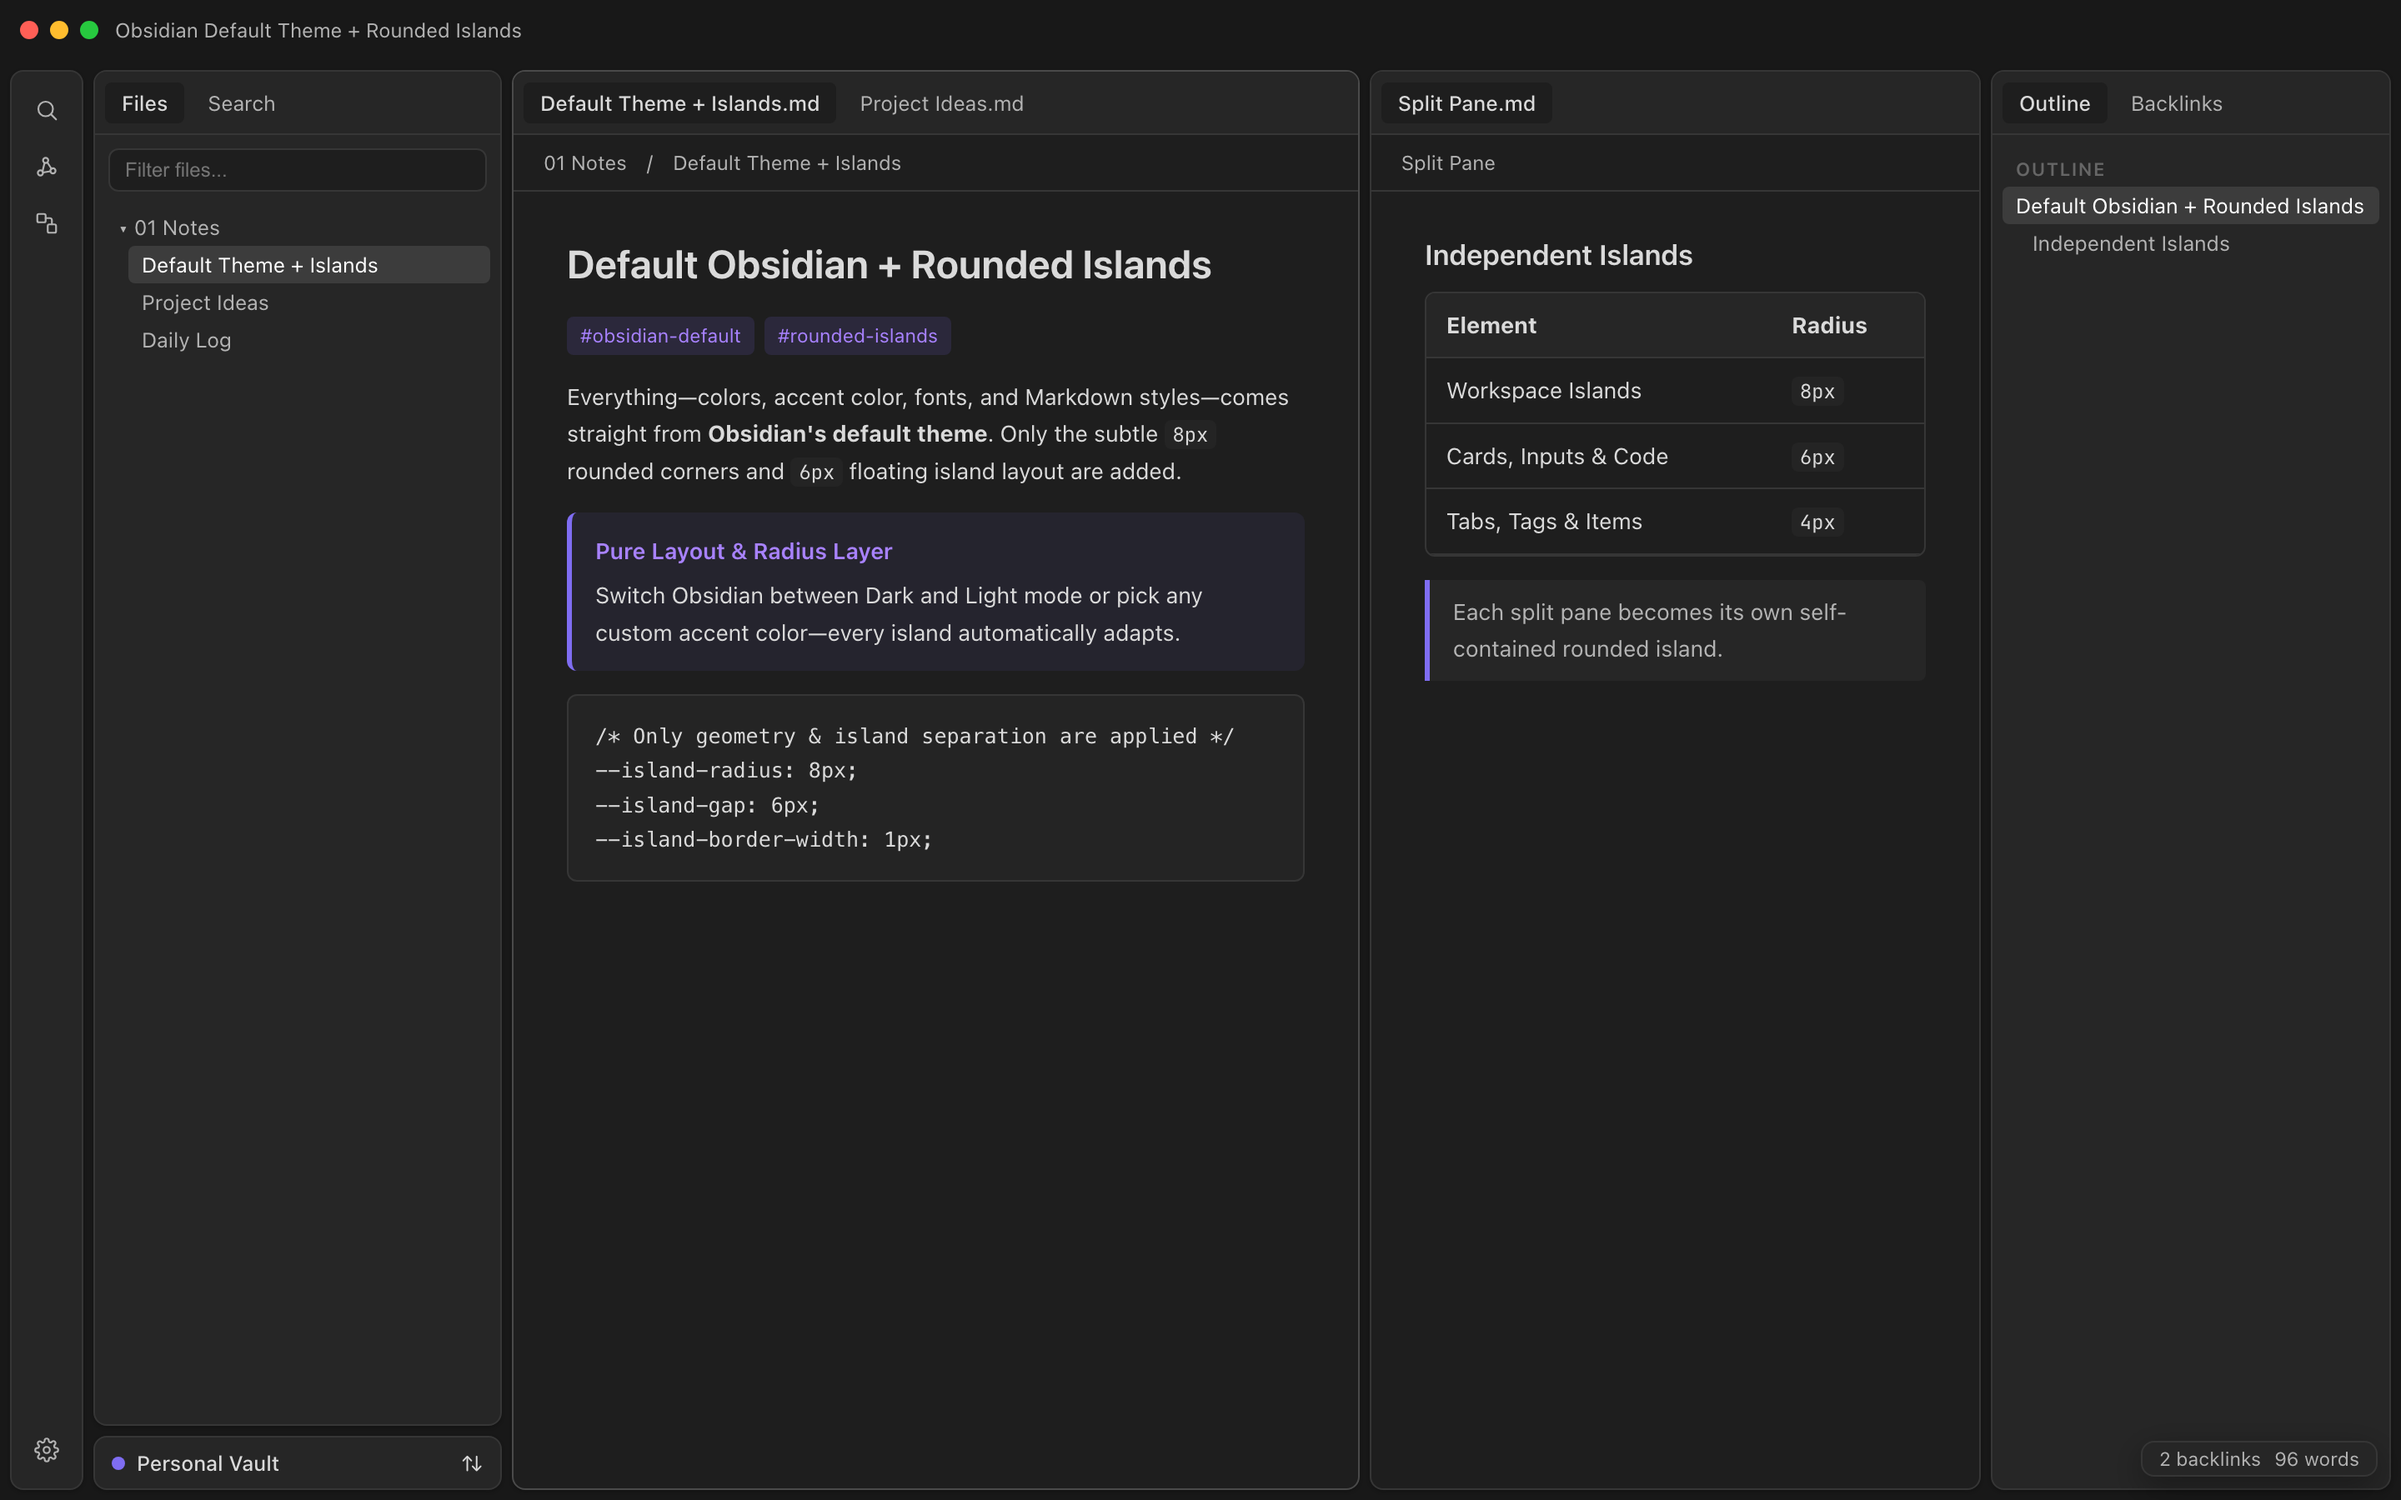
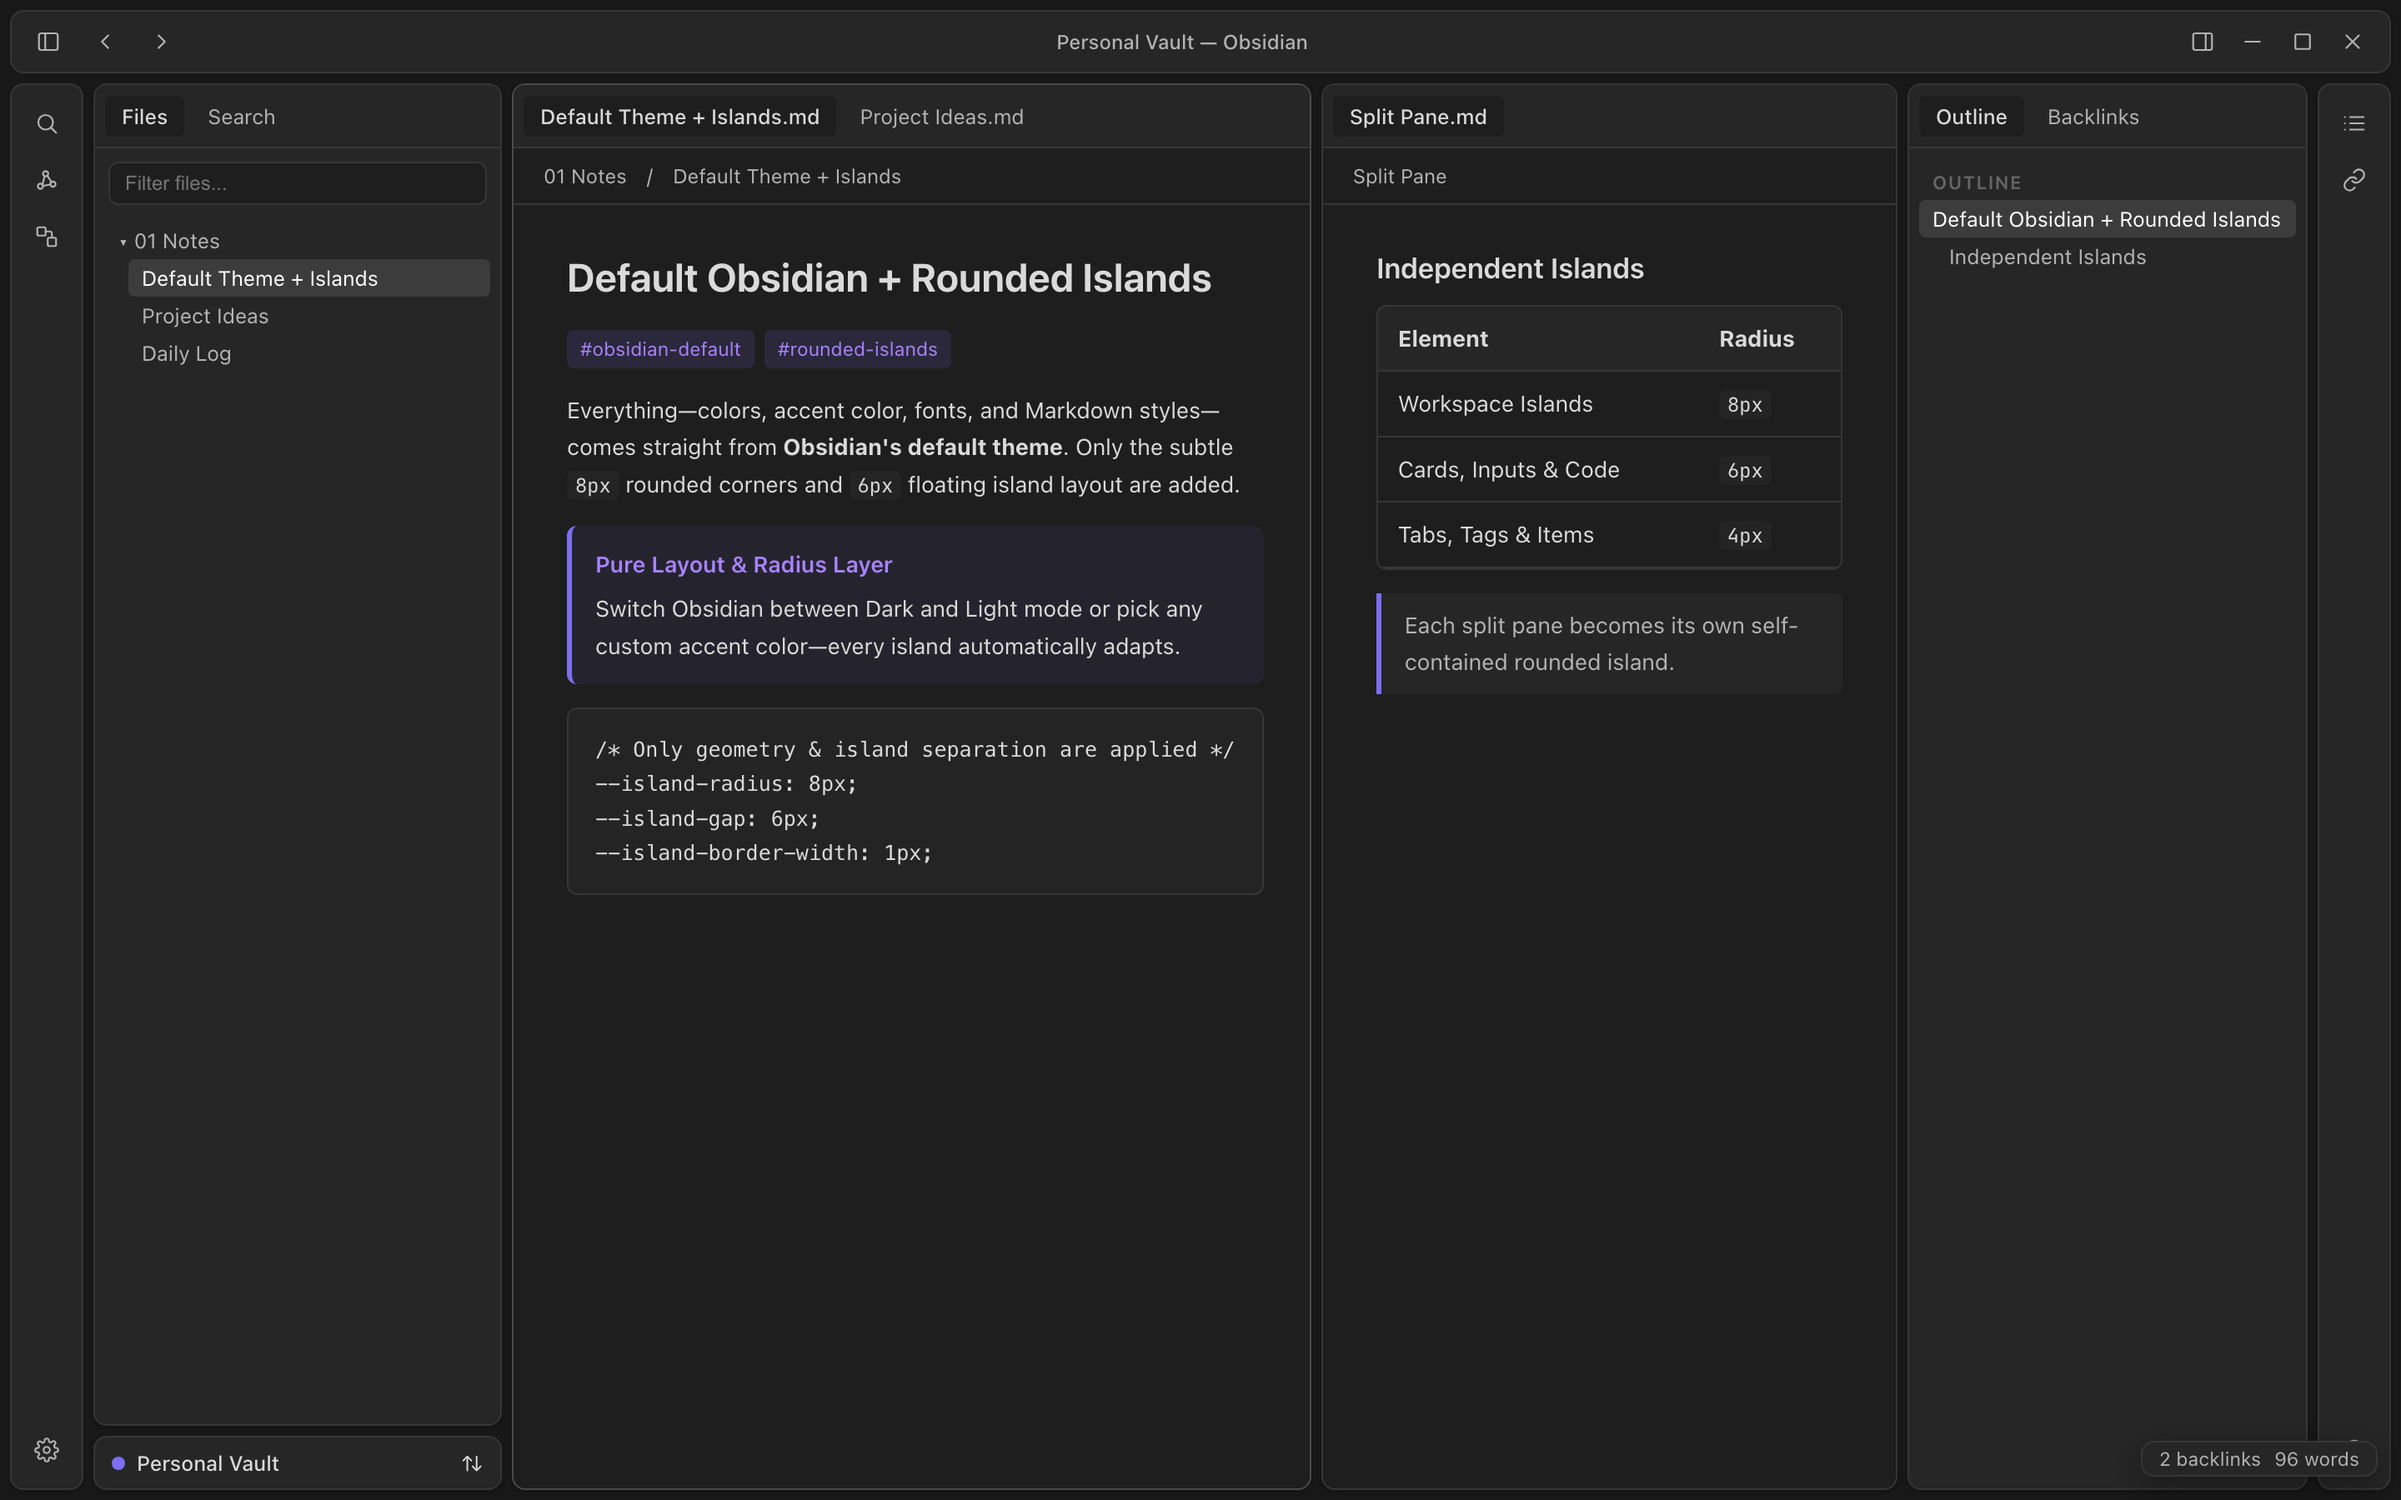
Add separate header island and rounded right ribbon island

diff --git a/preview/index.html b/preview/index.html
@@ -90,23 +90,49 @@
     .app-container { display: flex; flex-direction: column; width: 100vw; height: 100vh; }
 
     .titlebar {
-      height: 36px;
-      min-height: 36px;
       display: flex;
       align-items: center;
-      justify-content: space-between;
-      padding: 0 12px;
       font-size: 12px;
       color: var(--text-muted);
       user-select: none;
     }
 
-    .titlebar-left { display: flex; align-items: center; gap: 10px; }
-    .traffic-lights { display: flex; gap: 7px; align-items: center; }
-    .traffic-lights span { width: 11px; height: 11px; border-radius: 50%; display: inline-block; }
-    .tl-close { background: #ff5f56; }
-    .tl-min { background: #ffbd2e; }
-    .tl-max { background: #27c93f; }
+    .titlebar-inner {
+      width: 100%;
+      justify-content: space-between;
+    }
+
+    .titlebar-left,
+    .titlebar-right {
+      display: flex;
+      align-items: center;
+      gap: 6px;
+    }
+
+    .titlebar-center {
+      font-size: 12px;
+      font-weight: 500;
+      color: var(--text-muted);
+    }
+
+    .titlebar-button {
+      width: 28px;
+      display: flex;
+      align-items: center;
+      justify-content: center;
+      color: var(--icon-color);
+      cursor: pointer;
+    }
+
+    .titlebar-button:hover {
+      background: var(--background-modifier-hover);
+      color: var(--icon-color-hover);
+    }
+
+    .titlebar-button.mod-close:hover {
+      background: #e81123;
+      color: #ffffff;
+    }
 
     .preview-controls { display: flex; align-items: center; gap: 8px; }
     .preview-controls button {
@@ -131,7 +157,8 @@
     .horizontal-main-container { flex: 1; display: flex; min-height: 0; }
     .workspace { flex: 1; display: flex; flex-direction: row; min-height: 0; min-width: 0; }
 
-    .workspace-ribbon.mod-left {
+    .workspace-ribbon.mod-left,
+    .workspace-ribbon.mod-right {
       width: var(--ribbon-width);
       min-width: var(--ribbon-width);
       display: flex;
@@ -264,28 +291,51 @@
 <body class="theme-dark">
   <div class="app-container">
     <div class="titlebar">
-      <div class="titlebar-left">
-        <div class="traffic-lights">
-          <span class="tl-close"></span>
-          <span class="tl-min"></span>
-          <span class="tl-max"></span>
+      <div class="titlebar-inner">
+        <div class="titlebar-left">
+          <div class="titlebar-button" title="Toggle Left Sidebar">
+            <svg viewBox="0 0 24 24"><rect x="3" y="4" width="18" height="16" rx="2"/><path d="M9 4v16"/></svg>
+          </div>
+          <div class="titlebar-button" title="Navigate Back">
+            <svg viewBox="0 0 24 24"><path d="m15 18-6-6 6-6"/></svg>
+          </div>
+          <div class="titlebar-button" title="Navigate Forward">
+            <svg viewBox="0 0 24 24"><path d="m9 18 6-6-6-6"/></svg>
+          </div>
         </div>
-        <span>Obsidian Default Theme + Rounded Islands</span>
-      </div>
 
-      <div class="preview-controls">
-        <div class="slider-group">
-          <label for="radiusRange">Radius <span id="radiusVal">8px</span></label>
-          <input id="radiusRange" type="range" min="4" max="16" value="8" />
+        <div class="titlebar-center">Personal Vault — Obsidian</div>
+
+        <div class="titlebar-right">
+          <div class="preview-controls">
+            <div class="slider-group">
+              <label for="radiusRange">Radius <span id="radiusVal">8px</span></label>
+              <input id="radiusRange" type="range" min="4" max="16" value="8" />
+            </div>
+            <div class="slider-group">
+              <label for="gapRange">Gap <span id="gapVal">6px</span></label>
+              <input id="gapRange" type="range" min="2" max="14" value="6" />
+            </div>
+            <button id="toggleThemeBtn">Switch to Light</button>
+            <button id="togglePaletteBtn">Command Palette</button>
+            <button id="toggleMenuBtn">Context Menu</button>
+            <button id="toggleRightBtn">Toggle Right Island</button>
+          </div>
+          <div class="titlebar-button-container">
+            <div class="titlebar-button" title="Toggle Right Sidebar">
+              <svg viewBox="0 0 24 24"><rect x="3" y="4" width="18" height="16" rx="2"/><path d="M15 4v16"/></svg>
+            </div>
+            <div class="titlebar-button mod-minimize" title="Minimize">
+              <svg viewBox="0 0 24 24"><path d="M5 12h14"/></svg>
+            </div>
+            <div class="titlebar-button mod-maximize" title="Maximize">
+              <svg viewBox="0 0 24 24"><rect x="5" y="5" width="14" height="14" rx="1.5"/></svg>
+            </div>
+            <div class="titlebar-button mod-close" title="Close">
+              <svg viewBox="0 0 24 24"><path d="M18 6 6 18M6 6l12 12"/></svg>
+            </div>
+          </div>
         </div>
-        <div class="slider-group">
-          <label for="gapRange">Gap <span id="gapVal">6px</span></label>
-          <input id="gapRange" type="range" min="2" max="14" value="6" />
-        </div>
-        <button id="toggleThemeBtn">Switch to Light</button>
-        <button id="togglePaletteBtn">Command Palette</button>
-        <button id="toggleMenuBtn">Context Menu</button>
-        <button id="toggleRightBtn">Toggle Right Island</button>
       </div>
     </div>
 
@@ -424,6 +474,17 @@
                 </div>
               </div>
             </div>
+          </div>
+        </div>
+
+        <!-- Right Ribbon Island -->
+        <div class="workspace-ribbon mod-right">
+          <div class="ribbon-group">
+            <div class="side-dock-ribbon-action" title="Outline"><svg viewBox="0 0 24 24"><path d="M8 6h13M8 12h13M8 18h13M3 6h.01M3 12h.01M3 18h.01"/></svg></div>
+            <div class="side-dock-ribbon-action" title="Backlinks"><svg viewBox="0 0 24 24"><path d="M10 13a5 5 0 0 0 7.5 0l2.5-2.5a5 5 0 0 0-7.1-7.1L11.5 4.8"/><path d="M14 11a5 5 0 0 0-7.5 0L4 13.5a5 5 0 0 0 7.1 7.1l1.4-1.4"/></svg></div>
+          </div>
+          <div class="ribbon-group">
+            <div class="side-dock-ribbon-action" title="Help"><svg viewBox="0 0 24 24"><circle cx="12" cy="12" r="9"/><path d="M9.1 9a3 3 0 0 1 5.8 1c0 2-3 3-3 3M12 17h.01"/></svg></div>
           </div>
         </div>
       </div>

diff --git a/theme.css b/theme.css
@@ -60,7 +60,7 @@ body {
 }
 
 /* --------------------------------------------------------------------------
-   2. Workspace Canvas & Floating Islands Layout
+   2. Workspace Canvas, Separate Header Island & Floating Islands Layout
    -------------------------------------------------------------------------- */
 body,
 .app-container,
@@ -68,9 +68,54 @@ body,
   background-color: var(--island-canvas);
 }
 
+/* --- Separate Top Header Island (Titlebar + Window Controls) --- */
 .titlebar {
   background-color: var(--island-canvas);
   border-bottom: none;
+  padding: var(--island-gap) var(--island-gap) 0 var(--island-gap);
+  height: auto;
+  min-height: calc(var(--header-height) + var(--island-gap));
+  box-sizing: border-box;
+}
+
+/* Keep header as its own dedicated island in hidden-frameless mode too */
+body.is-hidden-frameless .titlebar {
+  position: relative;
+  height: calc(var(--header-height) + var(--island-gap));
+  padding: var(--island-gap) var(--island-gap) 0 var(--island-gap);
+  pointer-events: auto;
+  z-index: 20;
+}
+
+.titlebar-inner {
+  background-color: var(--background-secondary);
+  border: var(--island-border-width) solid var(--island-border);
+  border-radius: var(--island-radius);
+  box-shadow: var(--island-shadow);
+  height: var(--header-height);
+  min-height: var(--header-height);
+  padding: 0 8px;
+  overflow: hidden;
+  display: flex;
+  align-items: center;
+  box-sizing: border-box;
+}
+
+body.mod-macos.is-hidden-frameless .titlebar-inner {
+  padding-left: 74px;
+}
+
+.titlebar-button-container {
+  display: flex;
+  align-items: center;
+  gap: 2px;
+  height: 100%;
+  padding: 4px 0;
+}
+
+.titlebar-button {
+  border-radius: var(--radius-s);
+  height: 26px;
 }
 
 .workspace {
@@ -80,17 +125,26 @@ body,
   box-sizing: border-box;
 }
 
-/* macOS frameless window: keep traffic lights cleanly aligned */
-body.mod-macos.is-hidden-frameless .workspace {
-  padding-top: var(--island-gap);
-}
-
+/* Prevent Obsidian's frameless offsets from pushing ribbons/tabs under the header island */
+body.is-hidden-frameless .workspace-ribbon,
+body.is-hidden-frameless .workspace-ribbon.mod-left,
+body.is-hidden-frameless .workspace-ribbon.mod-right,
 body.mod-macos.is-hidden-frameless .workspace-ribbon.mod-left {
-  padding-top: 34px;
+  margin-top: 0;
+  padding-top: 8px;
 }
 
-/* --- Left Ribbon Island --- */
-.workspace-ribbon.mod-left {
+body.is-hidden-frameless .workspace-tabs.mod-top .workspace-tab-header-container {
+  padding-left: 6px;
+  padding-right: 6px;
+}
+
+/* --- Left & Right Ribbon Islands (Open & Collapsed) --- */
+.workspace-ribbon,
+.workspace-ribbon.mod-left,
+.workspace-ribbon.mod-right,
+.workspace-ribbon.mod-left.is-collapsed,
+.workspace-ribbon.mod-right.is-collapsed {
   background-color: var(--ribbon-background);
   border: var(--island-border-width) solid var(--island-border);
   border-radius: var(--island-radius);
@@ -99,11 +153,19 @@ body.mod-macos.is-hidden-frameless .workspace-ribbon.mod-left {
   overflow: hidden;
 }
 
-.workspace-ribbon.mod-left::before {
+.workspace-ribbon::before,
+.workspace-ribbon.mod-left::before,
+.workspace-ribbon.mod-right::before {
   display: none;
 }
 
-.workspace-ribbon .side-dock-ribbon-action {
+/* Hide empty right ribbon cleanly so it never leaves an awkward sliver */
+.workspace-ribbon.mod-right:empty {
+  display: none;
+}
+
+.workspace-ribbon .side-dock-ribbon-action,
+.workspace-ribbon .sidebar-toggle-button {
   border-radius: var(--radius-m);
 }
 
